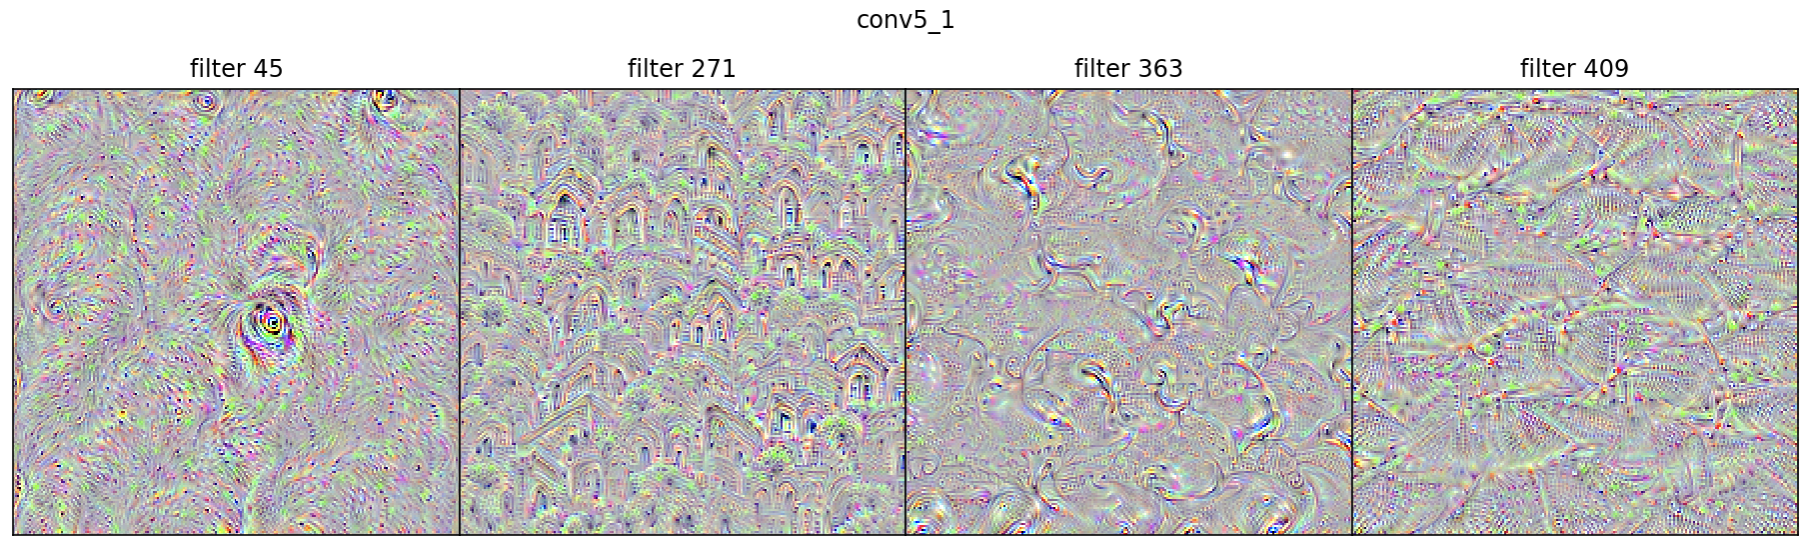
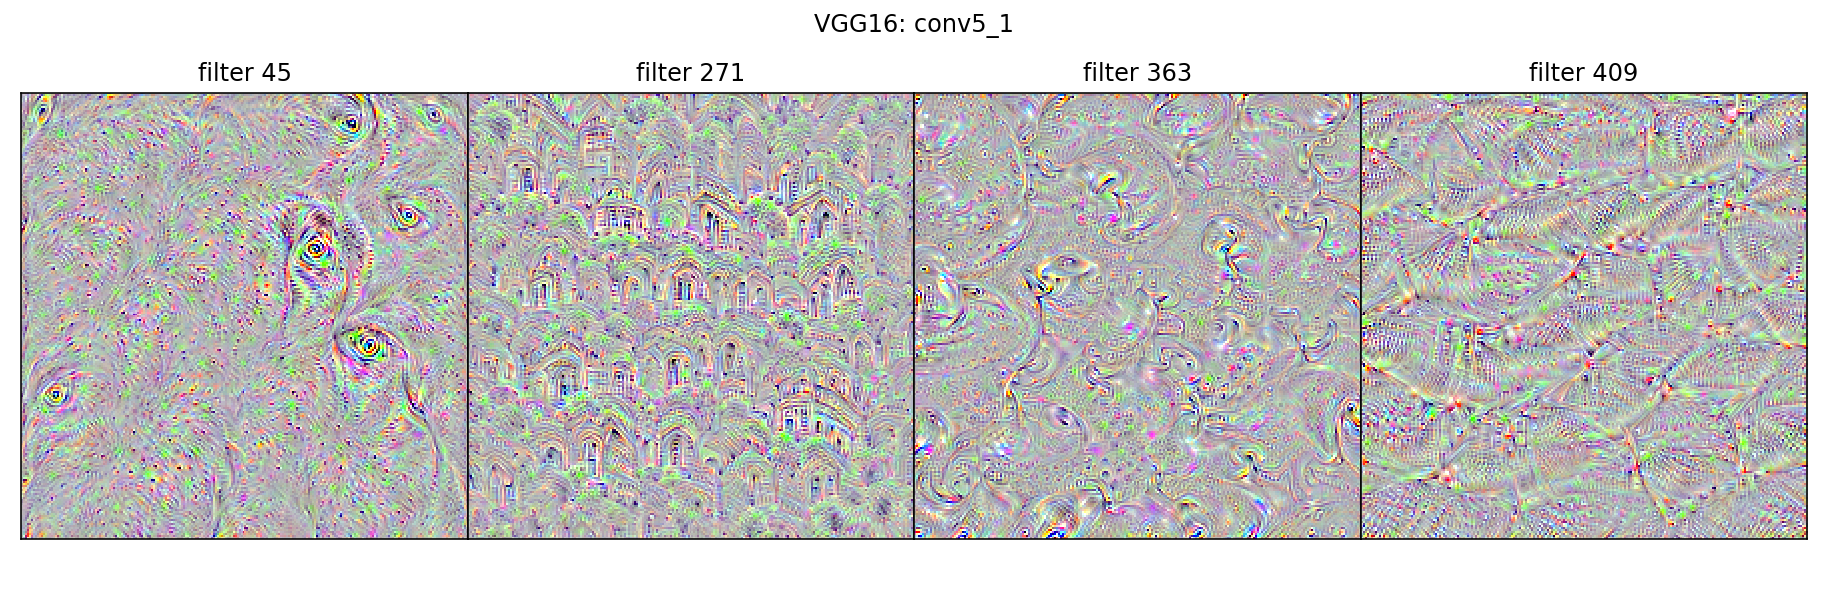
Update README

diff --git a/README.md b/README.md
@@ -62,24 +62,34 @@ Notebook: [Image handling](./examples/image_handling.ipynb)
 
 ### Saliency maps
 
-![Saliency map of great grey owl in Alexnet](./examples/images/alexnet_great_grey_owl.png)
-
 **[Saliency](https://en.wikipedia.org/wiki/Salience_(neuroscience))** in human visual perception is a _subjective quality_ that makes certain things within the field of view _stand out_ from the rest and _grabs our attention_.
 
 **Saliency maps** in computer vision provide indications of the most salient regions within images. By creating a saliency map for neural networks, we can gain some intuition on _"where the network is paying the most attention to"_ in an imput image.
 
-Example notebooks:
+Using `flashtorch.saliency` module, let's visualise image-specific class saliency maps of [AlexNet](https://arxiv.org/abs/1404.5997) pre-trained on [ImageNet](http://www.image-net.org/) classification tasks.
+
+**Great gray owl** (class index 24):
+The network is focusing on the sunken eyes and the round head for this owl.
+
+![Saliency map of great grey owl in Alexnet](https://github.com/MisaOgura/flashtorch/blob/master/examples/images/alexnet_great_grey_owl.png)
+
+Refer to the notebooks below for more examples:
 
 - [Image-specific class saliency map with backpropagation](https://github.com/MisaOgura/flashtorch/blob/master/examples/visualise_saliency_with_backprop.ipynb)
 - [Google Colab version](https://colab.research.google.com/github/MisaOgura/flashtorch/blob/master/examples/visualize_saliency_with_backprop_colab.ipynb): best for playing around
 
 ### Activation maximization
 
-![Activation maximization of conv5_1 filters of VGG16](./examples/images/conv5_1_filters.png)
-
 [Activation maximization](https://pdfs.semanticscholar.org/65d9/94fb778a8d9e0f632659fb33a082949a50d3.pdf) is one form of feature visualization that allows us to visualize what CNN filters are "looking for", by applying each filter to an input image and updating the input image so as to maximize the activation of the filter of interest (i.e. treating it as a gradient ascent task with filter activation values as the loss).
 
-Example notebooks:
+Using `flashtorch.activmax` module, let's visualise images optimized with filters
+from [VGG16](https://arxiv.org/pdf/1409.1556.pdf) pre-trained on [ImageNet](http://www.image-net.org/) classification tasks.
+
+![Activation maximization of conv5_1 filters from VGG16](https://github.com/MisaOgura/flashtorch/blob/master/examples/images/conv5_1_filters.png)
+
+We can see that, in the **earlier layers** (conv1_2, conv2_1), filters get activated by _colors and simple patterns_ such as virtical, horisontal and diagonal lines. In the **intermediate layers** (conv3_1, conv4_1), we start to see _more complex patterns_. Then concepts such as _'eyes'_ (filter 45) and _'entrances (?)'_ (filter 271) seem to appear in the **last layer** (conv5_1).
+
+Refer to the notebooks below for more examples:
 
 - [Activation maximization](https://github.com/MisaOgura/flashtorch/blob/master/examples/activation_maximization.ipynb)
 - [Google Colab version](https://github.com/MisaOgura/flashtorch/blob/master/examples/activation_maximization_colab.ipynb): best for playing around
